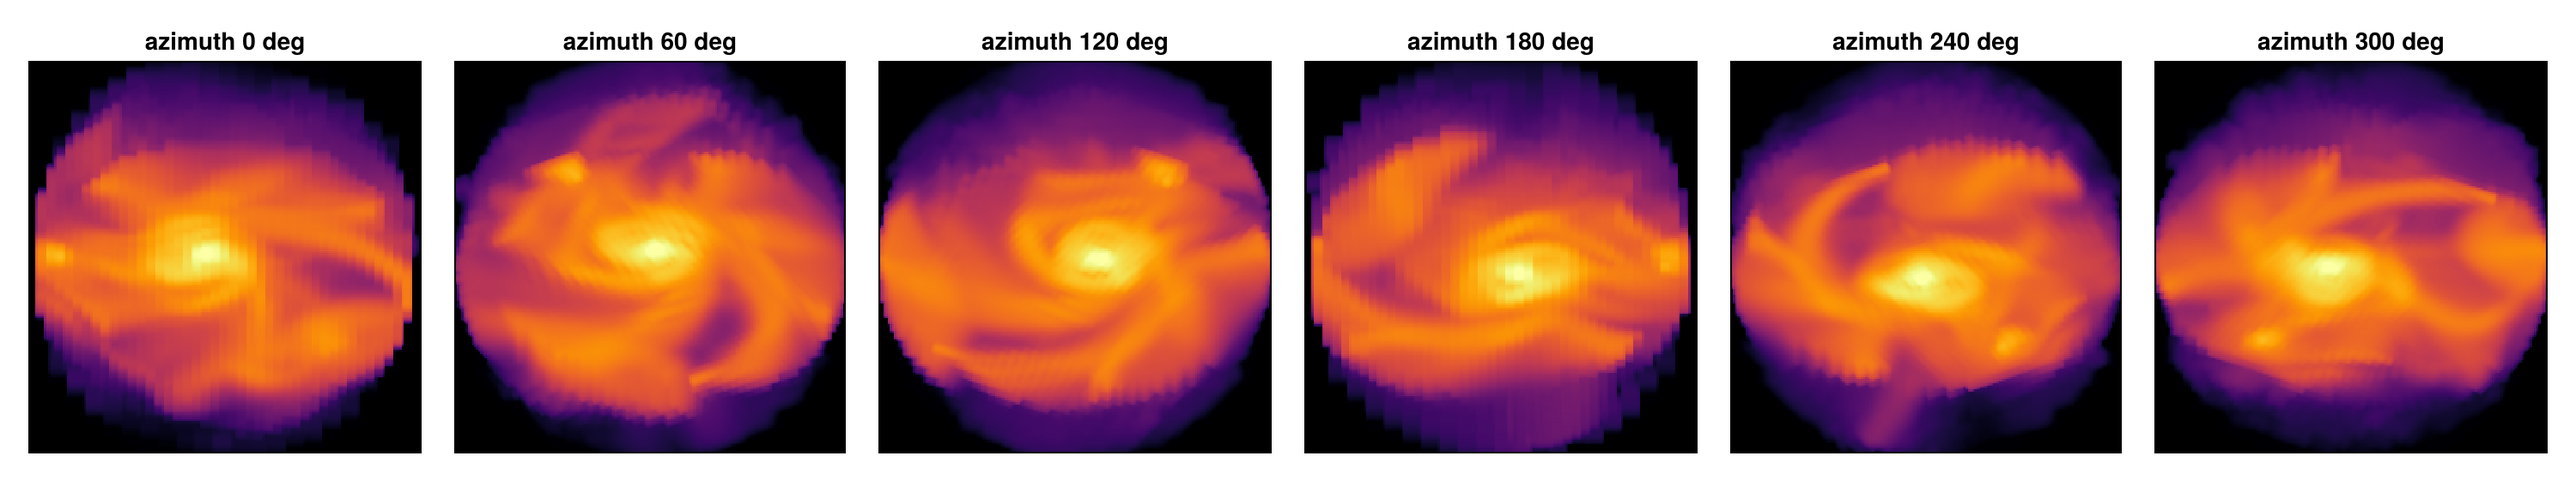
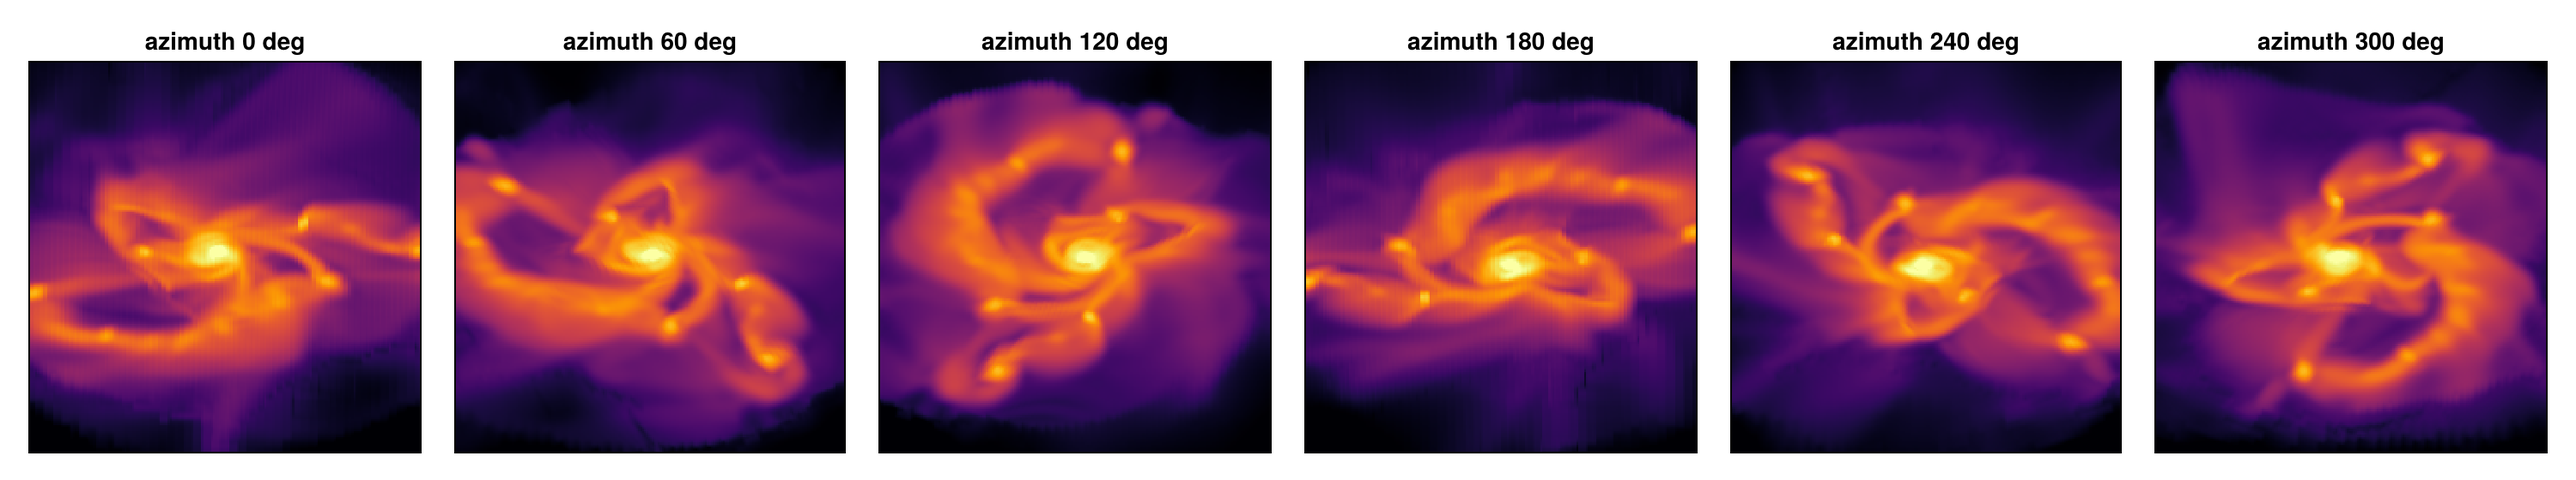
feat(rotation_sequence): aperture=:square — full rectangular orbit frame (#252)
* feat(rotation_sequence): aperture=:square — full rectangular orbit frame (no circular cutout)

Orbit movies used a spherical FOV (rotation-invariant, so no zoom) which shows as a circular
aperture with empty corners. Add `aperture=:square`: select a √2·FOV sphere (which encloses the
±FOV square at every viewing angle) and crop each frame to that square — a FULL rectangular frame,
identical size at every angle, no circular aperture and no data dropped inside it. `aperture=:circle`
stays the default.

Also clarifies the orthographic nature in the docstring/docs: the camera is parallel-projection, so
there is no "move farther away" — the only control over what is in frame is `fov` (omit it to
auto-fit the whole object); the FOV is made rotation-invariant via the sphere selection.

- test/06 rotation_sequence: assert :square gives identical-size frames, fills the corners the
  circle leaves empty, and rejects an unknown aperture.
- docs (06 + 14): aperture table + a circle-vs-square comparison figure; the orbit montage + GIF
  re-rendered with the full-frame :square aperture. Notebook (page 14) updated to match.

* feat(rotation_sequence): auto-FOV fits the galaxy (mass-enclosed radius) — full galaxy in frame

Follow-up so an orbit movie shows the FULL galaxy without manual fov tuning. `fov=nothing` now
auto-fits to the MASS-ENCLOSED 99% radius instead of the farthest cell, so the frame fits the galaxy
[…]

diff --git a/docs/src/06_offaxis_Projection.md b/docs/src/06_offaxis_Projection.md
@@ -559,7 +559,9 @@ of map objects — one per angle — ready to assemble into a montage or animate
 
 ```julia
 frames = rotation_sequence(gas, :sd, :Msol_pc2; sweep=:azimuth, angles=0:30:330,
-                           inclination=55, axis=:angmom, fov=16, fov_unit=:kpc, pxsize=[0.2,:kpc])
+                           inclination=55, axis=:angmom, pxsize=[0.35,:kpc],
+                           aperture=:square)   # fov omitted → auto-fit the whole galaxy; full square frame
+# (set fov=… explicitly to zoom in, e.g. fov=16, fov_unit=:kpc)
 
 using CairoMakie                                          # animate to a GIF
 fig = Figure(); ax = Axis(fig[1,1], aspect=DataAspect()); hidedecorations!(ax)
@@ -568,17 +570,36 @@ record(fig, "orbit.gif", eachindex(frames); framerate=8) do k
 end
 ```
 
-![Orbit montage: a galaxy at azimuths 0–300° (inclination 55°), all sharing one field of view.](assets/offaxis/orbit_montage.png)
+![Orbit montage: a galaxy at azimuths 0–300° (inclination 55°), full square frame, one fixed field of view.](assets/offaxis/orbit_montage.png)
 
 ![Animated orbit movie — azimuth sweep at 55° inclination.](assets/offaxis/orbit_movie.gif)
 
-Each frame is a `projection` of the chosen quantity (here `:sd`) at that viewing angle. The shared
-field of view is a **sphere of radius `fov`** — a sphere looks the same from every direction, so the
-object keeps **exactly the same scale and centring** at every angle (no zoom/jitter). That sphere is
-the **circular aperture** you see; the frame corners outside it carry no data and are empty by design.
+Each frame is a `projection` of the chosen quantity (here `:sd`) at that viewing angle. The off-axis
+camera is **orthographic** (parallel rays) — there is no perspective, so "moving the camera away"
+does nothing; the only control over what is in frame is the **`fov`** (omit it to auto-fit the galaxy
+— the mass-enclosed 99% radius — or set it explicitly to zoom in). Because each frame fills the
+image, a **larger `fov` shows the same galaxy smaller**:
 
-`sweep` can also be `:inclination` (tip from face-on to edge-on) or `:position_angle` (roll the
-camera). Leave `fov` out to auto-fit the object at every angle.
+```julia
+for fv in (16, 30, 48)
+    rotation_sequence(gas, :sd, :Msol_pc2; sweep=:azimuth, angles=[30], inclination=55,
+                      axis=:angmom, fov=fv, fov_unit=:kpc, pxsize=[0.3,:kpc])
+end
+```
+
+![The same view at fov = 16, 30, 48 kpc: each frame fills the image, so a larger field of view shows the galaxy progressively smaller.](assets/offaxis/orbit_fov.png)
+
+The FOV must be **rotation-invariant** or the frame would breathe with angle, so a sphere of
+radius `fov` is used; `aperture` picks how it is framed:
+
+| `aperture` | frame | corners |
+|---|---|---|
+| `:circle` (default) | the sphere → a **circular aperture** | empty (no data beyond radius `fov`) |
+| `:square` | a √2·`fov` sphere cropped to the `±fov` square → a **full rectangular frame** | filled (no data dropped inside) |
+
+![Circle vs square aperture: the circular cutout leaves empty corners; the square fills the frame, both at a fixed scale.](assets/offaxis/orbit_aperture.png)
+
+`sweep` can also be `:inclination` (tip from face-on to edge-on) or `:position_angle` (roll the camera).
 
 ## Troubleshooting
 

diff --git a/docs/src/14_multi_OffAxis_Features.md b/docs/src/14_multi_OffAxis_Features.md
@@ -123,7 +123,8 @@ extent each frame). It returns a vector of map objects, ready to montage or anim
 
 ```julia
 frames = rotation_sequence(gas, :sd, :Msol_pc2; sweep=:azimuth, angles=0:30:330,
-                           inclination=55, axis=:angmom, fov=16, fov_unit=:kpc, pxsize=[0.2,:kpc])
+                           inclination=55, axis=:angmom, pxsize=[0.35,:kpc],
+                           aperture=:square)   # fov omitted → auto-fit the whole galaxy; full square frame
 
 fig = Figure(); ax = Axis(fig[1,1], aspect=DataAspect()); hidedecorations!(ax)
 record(fig, "orbit.gif", eachindex(frames); framerate=8) do k     # animate to a GIF
@@ -131,15 +132,20 @@ record(fig, "orbit.gif", eachindex(frames); framerate=8) do k     # animate to a
 end
 ```
 
-![Orbit montage — a galaxy at azimuths 0–300° (inclination 55°), one shared field of view.](assets/offaxis/orbit_montage.png)
+![Orbit montage — a galaxy at azimuths 0–300° (inclination 55°), full square frame, one fixed field of view.](assets/offaxis/orbit_montage.png)
 
 ![Animated orbit movie — azimuth sweep at 55° inclination.](assets/offaxis/orbit_movie.gif)
 
-Each frame is a `projection` at that viewing angle. The shared field of view is a **sphere of radius
-`fov`** (rotation-invariant), so the galaxy keeps the **same scale and centring** at every angle — no
-zoom. The **circular aperture** is that sphere; the corners outside it are empty by design. `sweep`
-can also be `:inclination` (face-on → edge-on) or `:position_angle` (camera roll); omit `fov` to
-auto-fit the object at every angle.
+Each frame is a `projection` at that viewing angle. The off-axis camera is **orthographic**, so the
+only control over what is in frame is `fov` (omit it to auto-fit the galaxy — the mass-enclosed
+99% radius — or set `fov=…` to zoom in), and the FOV is
+made **rotation-invariant** by selecting a sphere about `center` — so the galaxy keeps the **same
+scale** at every angle (no zoom). `aperture=:circle` (default) shows that sphere as a circular
+aperture (empty corners); `aperture=:square` (used above) selects a √2·`fov` sphere and crops to the
+`±fov` square for a **full rectangular frame** with no empty corners. `sweep` can also be
+`:inclination` (face-on → edge-on) or `:position_angle` (camera roll).
+
+![Circle vs square aperture — the circular cutout leaves empty corners; the square fills the frame, both at a fixed scale.](assets/offaxis/orbit_aperture.png)
 
 ## Takeaway
 
